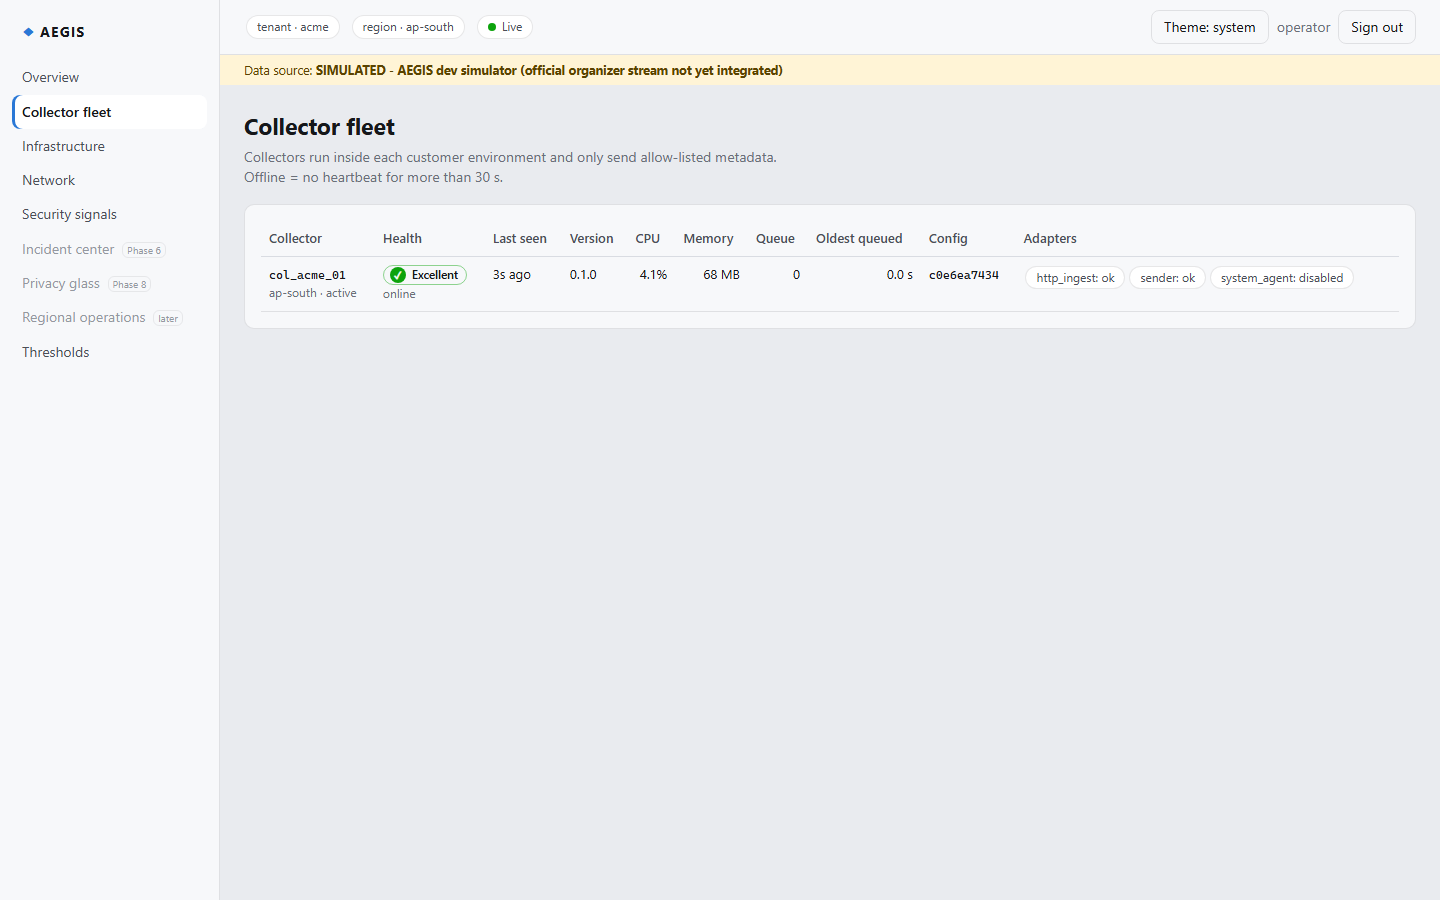
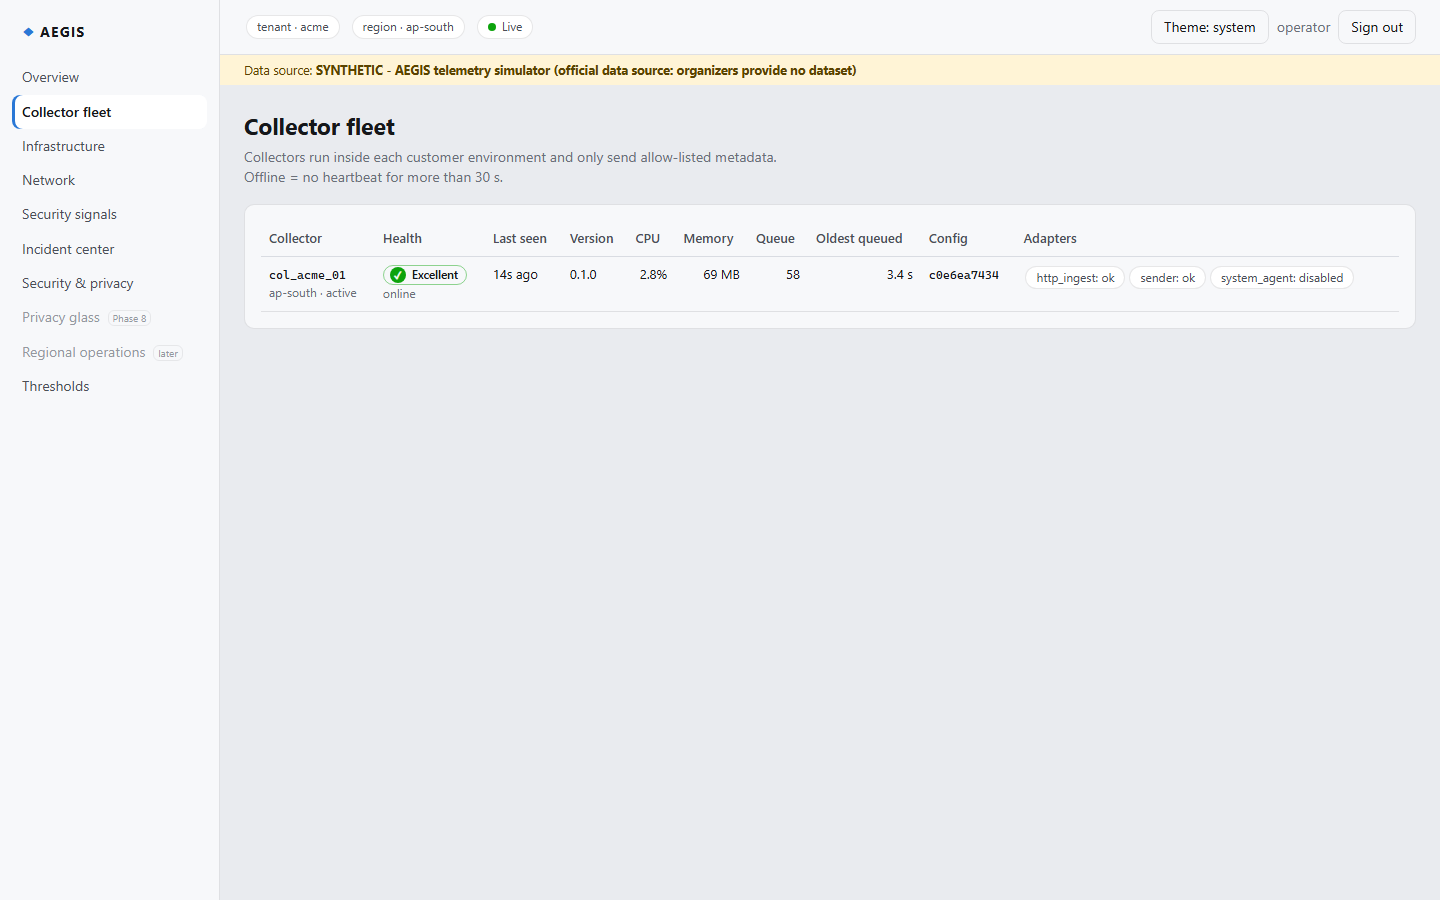
AIOps: freeze baseline during anomalies, alert only in harmful direction; close stale incidents on restart
- Found by live e2e: an incident taught the baseline the incident was normal (false P1 on recovery)
- Baseline frozen while deviating, adopted after ~5 min; directional alerts; filtered warm start
- Stale open incidents closed at startup with a visible reason (K30 mitigated)
- Hide deferred nav items; e2e waits for overview cards; updated evidence screenshots

Changed region(s): [[0.2188, 0.0622, 0.5938, 0.0933], [0.0, 0.3111, 0.125, 0.4356], [0.3438, 0.28, 0.375, 0.3111]]

diff --git a/apps/web/e2e/live.spec.ts b/apps/web/e2e/live.spec.ts
@@ -29,9 +29,10 @@ test('@live sign in -> overview shows real health from the API, live connection'
   await signIn(page)
   await expect(page.getByRole('status').filter({ hasText: 'Live' })).toBeVisible()
   await expect(page.getByText('Collectors online')).toBeVisible()
-  await expect(page.getByText(/Data source:.*SIMULATED/)).toBeVisible()
+  await expect(page.getByText(/Data source:.*SYNTHETIC/)).toBeVisible()
   // The tenant badge is populated from the session, not hard-coded.
   await expect(page.getByText('tenant · acme')).toBeVisible()
+  await expect(page.getByRole('status').filter({ hasText: /^Loading/ })).toHaveCount(0) // all cards loaded
   await page.screenshot({ path: `${SHOTS}/overview.png`, fullPage: true })
 })
 
@@ -87,7 +88,7 @@ test('@live AI engine: a new baseline-deviation incident appears WITHOUT reload'
   // 85% threshold, so only the statistical baseline detector can catch it.
   test.setTimeout(240_000)
   await signIn(page)
-  await page.getByRole('link', { name: 'Incident center' }).click()
+  await page.getByRole('navigation', { name: 'Main' }).getByRole('link', { name: 'Incident center' }).click()
   await page.getByRole('button', { name: 'Open' }).click()
   const row = page.getByRole('row', { name: /Baseline deviation on server .*cpu_usage/ }).first()
   await expect(row).toBeVisible({ timeout: 200_000 })
@@ -109,8 +110,8 @@ test('@live security & privacy page passes its live checks', async ({ page }) =>
   await signIn(page)
   await page.getByRole('link', { name: 'Security & privacy' }).click()
   await expect(page.getByRole('heading', { name: 'Security & privacy' })).toBeVisible()
-  await expect(page.getByText('Fail', { exact: true })).toHaveCount(0)
-  await expect(page.getByText('Pass', { exact: true })).toHaveCount(5)
+  await expect(page.locator('.trust-list .state-excellent')).toHaveCount(5) // icon + 'Pass'
+  await expect(page.locator('.trust-list .state-poor')).toHaveCount(0)
   await page.screenshot({ path: `${SHOTS}/security-privacy.png`, fullPage: true })
 })
 

diff --git a/apps/web/src/components/Layout.tsx b/apps/web/src/components/Layout.tsx
@@ -11,8 +11,7 @@ const NAV: { to: string; label: string; phase?: string }[] = [
   { to: '/security', label: 'Security signals' },
   { to: '/incidents', label: 'Incident center' },
   { to: '/trust', label: 'Security & privacy' },
-  { to: '/privacy', label: 'Privacy glass', phase: 'Phase 8' },
-  { to: '/regions', label: 'Regional operations', phase: 'later' },
+  // Privacy glass / regional operations: deferred (Phase 8+); not shown until built.
   { to: '/settings', label: 'Thresholds' },
 ]
 

diff --git a/apps/web/src/pages/IncidentDetail.tsx b/apps/web/src/pages/IncidentDetail.tsx
@@ -160,6 +160,8 @@ export function IncidentDetail() {
         </div>
       </div>
 
+      {x.closed_reason && <div className="data-banner" role="note">{x.closed_reason}</div>}
+
       <div className="grid-3">
         <Card title="Probable cause">
           <p className="big">{entityLink(pc.entity, pc.entity_kind)}</p>

diff --git a/apps/web/src/api/types.ts b/apps/web/src/api/types.ts
@@ -204,6 +204,7 @@ export interface Explanation {
   uncertainty: string[]
   recommendations: Recommendation[]
   affected_entities: string[]
+  closed_reason?: string
 }
 
 export interface AiExplanation {

diff --git a/apps/saas-api/src/saas_api/aiops/baseline.py b/apps/saas-api/src/saas_api/aiops/baseline.py
@@ -42,10 +42,12 @@ def slope(ys: list[float]) -> float:
 
 
 class _Series:
-    __slots__ = ("hist", "last_end", "streak", "streak_dir", "rise_streak")
+    __slots__ = ("hist", "recent", "last_end", "streak", "streak_dir", "rise_streak", "dev_run")
 
-    def __init__(self, maxlen: int):
-        self.hist: deque[float] = deque(maxlen=maxlen)
+    def __init__(self, maxlen: int, trend_len: int):
+        self.hist: deque[float] = deque(maxlen=maxlen)  # baseline: excludes anomalous windows
+        self.recent: deque[float] = deque(maxlen=trend_len)  # raw recent values (trend only)
+        self.dev_run = 0  # consecutive windows deviating from the baseline (either direction)
         self.last_end: datetime | None = None
         self.streak = 0
         self.streak_dir: str | None = None
@@ -59,14 +61,28 @@ class Baselines:
 
     def seed(self, key: tuple, values: list[float], last_end: datetime | None) -> None:
         """Warm start from persisted history (no scoring)."""
-        s = self.series.setdefault(key, _Series(self.cfg.history_windows))
-        s.hist.extend(values[-self.cfg.history_windows :])
+        s = self.series.setdefault(key, self._new())
+        vals = values[-self.cfg.history_windows :]
+        if len(vals) >= self.cfg.min_history:  # same rule as live: deviating windows stay out
+            med = statistics.median(vals)
+            mu = max(mad(vals, med), self.cfg.mad_floor.get(key[-1], 0.5))
+            vals = [v for v in vals if abs(Z_K * (v - med) / mu) < self.cfg.z_threshold]
+        s.hist.extend(vals)
+        s.recent.extend(values[-self.cfg.trend_windows :])
         s.last_end = last_end
+
+    def _new(self) -> _Series:
+        return _Series(self.cfg.history_windows, self.cfg.trend_windows)
+
+    def _harmful(self, metric: str, direction: str) -> bool:
+        d = self.cfg.alert_direction
+        want = d.get(metric, d.get("default", "both"))
+        return want == "both" or want == direction
 
     def update(self, key: tuple, metric: str, window_end: datetime, value: float) -> Score | None:
         """Score `value` against the history BEFORE it, then add it. Late/out-of-order -> None."""
         cfg = self.cfg
-        s = self.series.setdefault(key, _Series(cfg.history_windows))
+        s = self.series.setdefault(key, self._new())
         if s.last_end is not None and window_end <= s.last_end:
             return None  # late or duplicate window: never scored, never changes the baseline
         s.last_end = window_end
@@ -79,8 +95,11 @@ class Baselines:
             m = mad(hist, med)
             mu = max(m, cfg.mad_floor.get(metric, 0.5))
             z = Z_K * (value - med) / mu
-            anomalous = abs(z) >= cfg.z_threshold
             direction = "up" if z > 0 else "down"
+            deviating = abs(z) >= cfg.z_threshold
+            # Only the harmful direction alerts (CPU returning to normal is not an incident).
+            anomalous = deviating and self._harmful(metric, direction)
+            s.dev_run = s.dev_run + 1 if deviating else 0
         if anomalous and direction == s.streak_dir:
             s.streak += 1
         elif anomalous:
@@ -89,14 +108,19 @@ class Baselines:
             s.streak, s.streak_dir = 0, None
 
         rise, rising = None, False
-        if metric in cfg.trend_metrics and n + 1 >= cfg.trend_windows and med is not None:
-            ys = [*hist[-(cfg.trend_windows - 1) :], value]
+        recent = list(s.recent)
+        if metric in cfg.trend_metrics and len(recent) + 1 >= cfg.trend_windows and med is not None:
+            ys = [*recent[-(cfg.trend_windows - 1) :], value]
             rise = slope(ys) * (cfg.trend_windows - 1)
             rising = rise > cfg.trend_min_relative_rise * max(
                 abs(med), cfg.mad_floor.get(metric, 0.5)
             ) and rise >= cfg.trend_min_absolute_rise.get(metric, 0.0)
         s.rise_streak = s.rise_streak + 1 if rising else 0
-        s.hist.append(value)
+        s.recent.append(value)
+        # Freeze the baseline during a deviation, so an incident never teaches the baseline that
+        # the incident is normal; a level that persists past adapt_after_windows is adopted.
+        if s.dev_run == 0 or s.dev_run > cfg.adapt_after_windows:
+            s.hist.append(value)
         return Score(
             value,
             n,

diff --git a/tests/system/test_aiops_scenarios.py b/tests/system/test_aiops_scenarios.py
@@ -113,7 +113,16 @@ def test_s5_baseline_deviation_below_static_threshold(h):
     (inc,) = h.incidents()
     alerts = h.eng._alerts_of(inc)  # noqa: SLF001
     assert {a.family for a in alerts} == {"BASELINE"}
-    assert {a.entity_id for a in alerts} == {h.pid("SRV_002")}
+    assert {a.entity_id for a in alerts} == {h.pid("SRV_002")}, [
+        (
+            a.entity_id[:10],
+            a.code,
+            a.evidence.get("direction"),
+            a.evidence.get("baseline_median"),
+            a.evidence.get("observed"),
+        )
+        for a in alerts
+    ]
     assert inc.root_entity == h.pid("SRV_002")
     ev = alerts[0].evidence
     assert ev["observed"] < 85 and ev["z"] >= 3.5  # below the static Fair threshold
@@ -150,3 +159,34 @@ def test_s3_failed_logins_security_incident(h):
     assert len(incs) == 1
     blob = json.dumps(incs[0].explanation)
     assert "failure_count" in blob and "@" not in blob
+
+
+def test_back_to_back_s6_then_recovery_then_s5_no_false_incident(h):
+    """Production regression: after an incident, recovery must not open a 'down deviation'
+    incident, and a later independent incident must still be detected against a clean baseline."""
+    from datetime import timedelta as td
+
+    _scenario(h, s6_cascade(duration=120.0), after=120)  # S6 for 120 s, then normal data
+    for i in h.incidents():
+        assert all(a.evidence.get("direction") != "down" for a in h.eng._alerts_of(i))  # noqa: SLF001
+    h.run(Generator(seed=13), h.now, 150)  # 150 s of normal data (recovery)
+    h.eng.sweep()
+    assert [i for i in h.incidents() if i.status == "open"] == []
+    gen = Generator(seed=12)
+    start = h.now
+    gen.add_scenario(s5_cpu_step(), start + td(seconds=30))
+    h.run(gen, start, 70)
+    new = [i for i in h.incidents() if i.status == "open"]
+    assert len(new) == 1, [i.title for i in new]
+    alerts = h.eng._alerts_of(new[0])  # noqa: SLF001
+    assert {a.entity_id for a in alerts} == {h.pid("SRV_002")}, [
+        (
+            a.entity_id[:10],
+            a.code,
+            a.evidence.get("direction"),
+            a.evidence.get("baseline_median"),
+            a.evidence.get("observed"),
+        )
+        for a in alerts
+    ]
+    assert alerts[0].evidence["direction"] == "up" and alerts[0].evidence["baseline_median"] < 45

diff --git a/apps/saas-api/tests/test_aiops_engine.py b/apps/saas-api/tests/test_aiops_engine.py
@@ -272,3 +272,49 @@ def test_tenants_never_correlate_or_leak(eng, clk):
     theirs = [i for i in eng.incidents.values() if i.tenant_id == other]
     assert len(mine) == 1 and len(theirs) == 1 and mine[0].id != theirs[0].id
     assert eng.noise(other)["transients_suppressed"] == eng.transients.get(other, 0)
+
+
+# ---- Regression (production, 2026-11-20 19:50): the baseline absorbed an incident's values, so
+# the return to normal raised "down" deviations (false P1) and a repeat incident looked normal.
+
+
+def test_return_to_normal_after_incident_is_not_an_incident(eng, clk):
+    feed(eng, clk, SRV, "cpu_usage", noisy(35, 2, 40) + [80.0] * 60)  # 2 min incident
+    (first,) = incidents(eng)
+    clk.now += timedelta(seconds=200)
+    eng.sweep()
+    assert first.status == "resolved"
+    feed(eng, clk, SRV, "cpu_usage", noisy(35, 2, 60, seed=9), start=100)  # back to normal
+    assert [i for i in incidents(eng) if i.status == "open"] == []
+
+
+def test_repeat_incident_is_detected_again(eng, clk):
+    feed(eng, clk, SRV, "cpu_usage", noisy(35, 2, 40) + [80.0] * 60)
+    clk.now += timedelta(seconds=200)
+    eng.sweep()
+    feed(eng, clk, SRV, "cpu_usage", noisy(35, 2, 30, seed=4) + [80.0] * 3, start=100)
+    opened = [i for i in incidents(eng) if i.status == "open"]
+    assert len(opened) == 1
+    ev = eng._alerts_of(opened[0])[0].evidence
+    assert ev["direction"] == "up" and ev["baseline_median"] < 40  # baseline was not polluted
+
+
+def test_drop_in_bad_when_high_metric_never_alerts(eng, clk):
+    feed(eng, clk, NET, "packet_loss", noisy(1.0, 0.1, 40) + [0.0] * 10, kind="network_device")
+    assert incidents(eng) == []
+
+
+def test_persistent_new_level_is_adopted_after_adaptation_window(eng, clk):
+    cfg = eng.cfg
+    feed(eng, clk, SRV, "cpu_usage", noisy(35, 2, 40) + [60.0] * (cfg.adapt_after_windows + 160))
+    s = eng.baselines.series[(TENANT, SRV, "cpu_usage")]
+    import statistics
+
+    assert statistics.median(s.hist) == 60.0  # the new normal, learned only after ~5 min
+
+
+def test_warm_start_seed_excludes_incident_values(eng):
+    key = (TENANT, SRV, "cpu_usage")
+    eng.baselines.seed(key, noisy(35, 2, 100) + [80.0] * 40, T0)
+    s = eng.baselines.series[key]
+    assert max(s.hist) < 50 and len(s.hist) == 100

diff --git a/apps/saas-api/src/saas_api/aiops/runtime.py b/apps/saas-api/src/saas_api/aiops/runtime.py
@@ -40,6 +40,11 @@ from .engine import AiopsEngine, Change, Incident
 
 log = structlog.get_logger("saas.aiops")
 
+RESTART_REASON = (
+    "Closed automatically when the SaaS restarted: open-incident state is not carried across "
+    "restarts yet (K30). New signals open a new incident."
+)
+
 
 @lru_cache(maxsize=1)
 def engine() -> AiopsEngine:
@@ -410,6 +415,22 @@ def load_state() -> None:
                 tenants = [r.tenant_id for r in c.execute(text("SELECT * FROM list_tenants()"))]
             for tid in tenants:
                 with tenant_connection(region, tid) as c:
+                    # Open-incident state is in memory (K30): close what a previous process left
+                    # open, with the reason, instead of showing it as open forever.
+                    c.execute(
+                        text(
+                            "UPDATE incidents SET status = 'resolved', resolved_at = now(), "
+                            "explanation = explanation || jsonb_build_object('closed_reason', "
+                            "CAST(:r AS text)) WHERE status = 'open'"
+                        ),
+                        {"r": RESTART_REASON},
+                    )
+                    c.execute(
+                        text(
+                            "UPDATE alerts SET status = 'resolved', resolved_at = now() "
+                            "WHERE status = 'open'"
+                        )
+                    )
                     eng.observe_edges(
                         tid, [dict(r._mapping) for r in c.execute(select(topology_edges))]
                     )

diff --git a/apps/saas-api/tests/test_incidents_api.py b/apps/saas-api/tests/test_incidents_api.py
@@ -122,3 +122,19 @@ def test_collector_token_cannot_read_incidents_and_operator_cannot_pull(regions,
     assert api.get("/api/v1/incidents", headers=_auth(acme)).status_code == 401
     login(api, acme)
     assert api.get("/api/v1/notifications/ap-south").status_code == 401
+
+
+def test_restart_closes_stale_open_incidents_with_reason(regions, seeded):
+    from saas_api.aiops import runtime as aiops
+
+    acme = seeded["acme"]
+    api = TestClient(create_app())
+    _security_incident(api, acme)
+    login(api, acme)
+    iid = api.get("/api/v1/incidents").json()[0]["id"]
+    aiops.reset()  # simulate a process restart: in-memory incident state is gone
+    aiops.load_state()
+    d = api.get(f"/api/v1/incidents/{iid}").json()
+    assert d["status"] == "resolved" and d["resolved_at"]
+    assert "restarted" in d["explanation"]["closed_reason"]
+    assert all(a["status"] == "resolved" for a in d["alerts"])

diff --git a/apps/saas-api/src/saas_api/aiops/config.py b/apps/saas-api/src/saas_api/aiops/config.py
@@ -16,6 +16,8 @@ class AiopsConfig:
     min_history: int
     z_threshold: float
     persist_windows: int
+    adapt_after_windows: int
+    alert_direction: dict[str, str]
     mad_floor: dict[str, float]
     trend_windows: int
     trend_metrics: frozenset[str]
@@ -41,6 +43,10 @@ def parse(d: dict[str, Any]) -> AiopsConfig:
         min_history=int(b["min_history"]),
         z_threshold=float(b["z_threshold"]),
         persist_windows=int(b["persist_windows"]),
+        adapt_after_windows=int(b.get("adapt_after_windows", b["history_windows"])),
+        alert_direction={
+            k: str(v) for k, v in (b.get("alert_direction") or {"default": "both"}).items()
+        },
         mad_floor={k: float(v) for k, v in b["mad_floor"].items()},
         trend_windows=int(t["windows"]),
         trend_metrics=frozenset(t["metrics"]),

diff --git a/docs/TEST_RESULTS.md b/docs/TEST_RESULTS.md
@@ -86,3 +86,8 @@
 | 6 | Supabase both regions at 0005: RLS enabled + tenant_isolation policy on alerts/incidents/notifications/llm_explanations; aegis_app SELECT/INSERT/UPDATE only (no DELETE); anon/authenticated no grants | PASSED | verification queries |
 | 6 | Bug found and fixed: LLM worker thread scheduled WS events onto a closed event loop after app shutdown ("coroutine never awaited" + worker error) - loop detached on shutdown, liveness checked, coroutine closed on race | FIXED | check.ps1 clean |
 | 6 | Full gate (backend checkpoint): **215 Python (normal) + 215 (CI parity)** + 18 web + build + secrets guard | PASSED | `scripts/check.ps1` |
+| 6 | **Production false positive found by the live e2e and fixed**: the rolling baseline absorbed an incident's values (NET_001 loss 8 %, latency 297 ms learned as normal), so the return to normal raised "down" deviations (false P1) and a repeat S5 step looked normal. Fix: baseline frozen during a deviation (adopted only after 150 windows ~5 min), alerts only in the harmful direction (bandwidth both), warm-start seed filtered the same way. 6 regression tests (2 core ones fail on the old code) incl. a back-to-back S6 -> recovery -> S5 system test | FIXED | `test_aiops_engine.py`, `tests/system` |
+| 6 | Re-sweep after the fix: still 0 false-positive incidents in 100 clean minutes; S4 5/5 (lead 30-32 s), S5 5/5, S6 5/5 | PASSED | `phase6_scenario_sweep.json` |
+| 6 | Live device-alert demo on production (637d8c4): S6 -> 1 P1 incident (18 alerts, root NET_001) -> 5 incident + 5 grounded AI notifications pulled by the collector, re-identified locally, delivered to the loopback webhook; 0 real source names in SaaS notifications and LLM prompts/responses; Gemini 5/5 ok, avg 3.2 s | PASSED | Supabase queries, webhook log |
+| 6 | Deploy incident: d0eeb92 crashed on the VPS (httpx not a declared runtime dependency; dev env hid it) -> rolled back to ea35e09 within ~3 min; fixed in 637d8c4 + architecture test that fails on any undeclared runtime import | FIXED | `tests/architecture/test_runtime_deps.py` |
+| 6 | Full gate: 224 Python x2 + 22 web | PASSED | `scripts/check.ps1` |

diff --git a/docs/KNOWN_ISSUES.md b/docs/KNOWN_ISSUES.md
@@ -31,7 +31,7 @@
 | K27 | Sign-out deletes the session cookie but the stateless JWT stays valid until expiry (30 min) if copied elsewhere | Stolen-cookie window | Production: server-side session revocation list or short TTL + refresh | ACCEPTED |
 | K28 | Local dashboard preview via Vite proxy to the VPS fails (Secure cookie over plain HTTP) | Dev convenience only | Use local SaaS for dev, or verify on the VPS | ACCEPTED |
 | K29 | Settings page states the engine's hysteresis/offline constants as text (not read from the API) | Could drift if constants change | Expose engine constants via /settings (Phase 6 cleanup) | OPEN |
-| K30 | AIOps open incidents/alert state are in memory; after a SaaS restart, open incidents stay in the DB but new alerts start fresh incidents (baselines and topology ARE restored) | A restart mid-incident can split one incident in two | Rehydrate open incidents + alerts at startup (Phase 7 reliability work) | OPEN |
+| K30 | AIOps open-incident state is in memory; at SaaS startup, incidents left open are closed with an explicit reason (shown in the UI) and new signals open a new incident (baselines and topology ARE restored) | A restart mid-incident splits one incident in two | Rehydrate open incidents + alerts at startup (Phase 7 reliability work) | MITIGATED |
 | K31 | Gemini free tier: rate/quota limits and no data-processing agreement | Explanations may be missing (fallback text shown); unsuitable for real customer data | Paid tier + DPA for production; eu-west already excluded | ACCEPTED |
 | K32 | Grounding validator is lexical (IDs, numbers, dates, times, codes) - it cannot detect a wrong claim built only from true facts | A fluent but wrong causal sentence could pass | Deterministic cause/priority remain authoritative and shown first; LLM text labelled as an explanation | ACCEPTED |
 | K33 | Notification pull every 5 s -> device alert latency up to ~5 s + incident detection time | Not instant push | Long-poll or WebSocket for collectors if needed | ACCEPTED |
